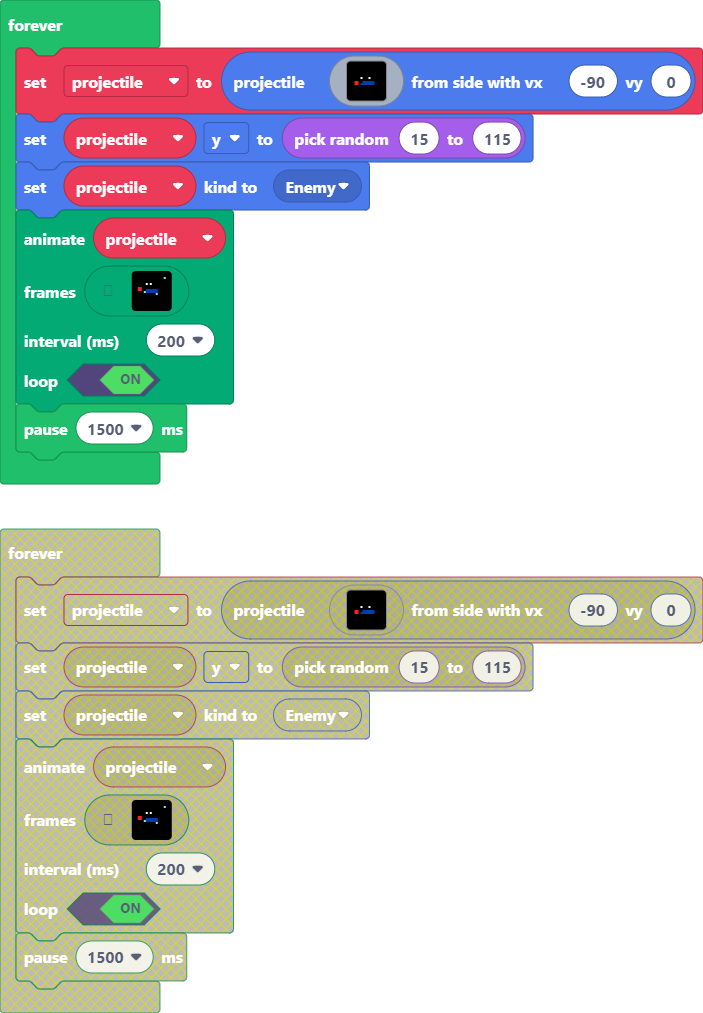
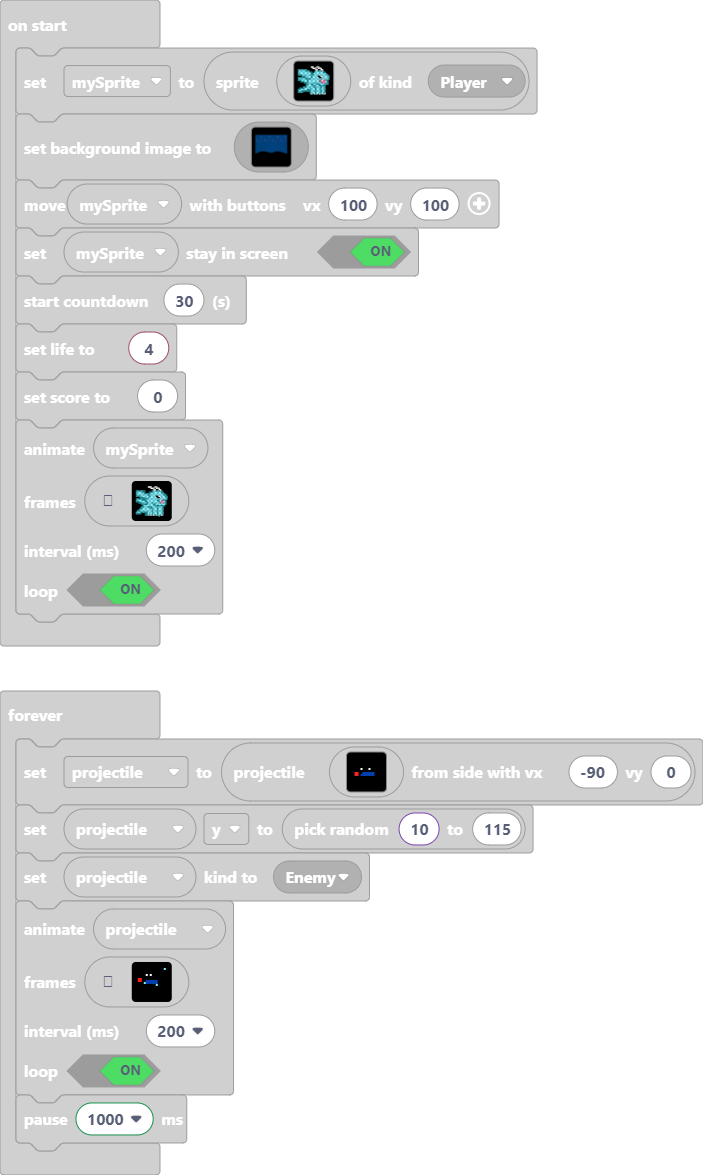
decreased lives and enemy spawns more

diff --git a/main.ts b/main.ts
@@ -25,7 +25,7 @@ scene.setBackgroundImage(assets.image`night sky`)
 controller.moveSprite(mySprite, 100, 100)
 mySprite.setStayInScreen(true)
 info.startCountdown(30)
-info.setLife(5)
+info.setLife(4)
 info.setScore(0)
 animation.runImageAnimation(
 mySprite,
@@ -52,7 +52,7 @@ forever(function () {
         . . . . . . . . . . . . . . . . 
         . . . . . . . . . . . . . . . . 
         `, -90, 0)
-    projectile.y = randint(15, 115)
+    projectile.y = randint(10, 115)
     projectile.setKind(SpriteKind.Enemy)
     animation.runImageAnimation(
     projectile,
@@ -145,5 +145,5 @@ forever(function () {
     200,
     true
     )
-    pause(1500)
+    pause(1000)
 })
